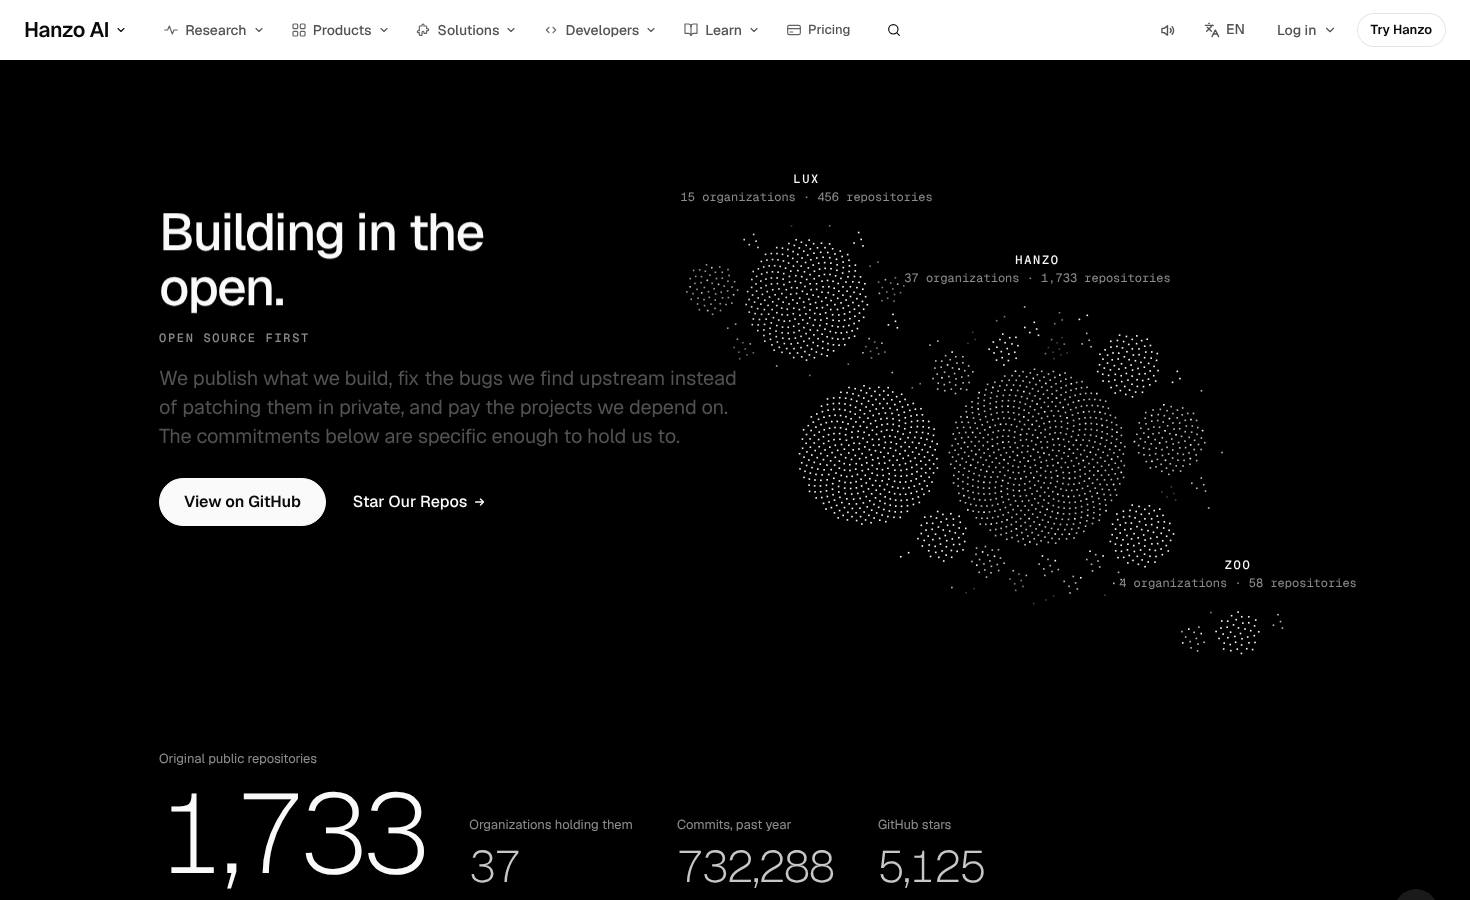
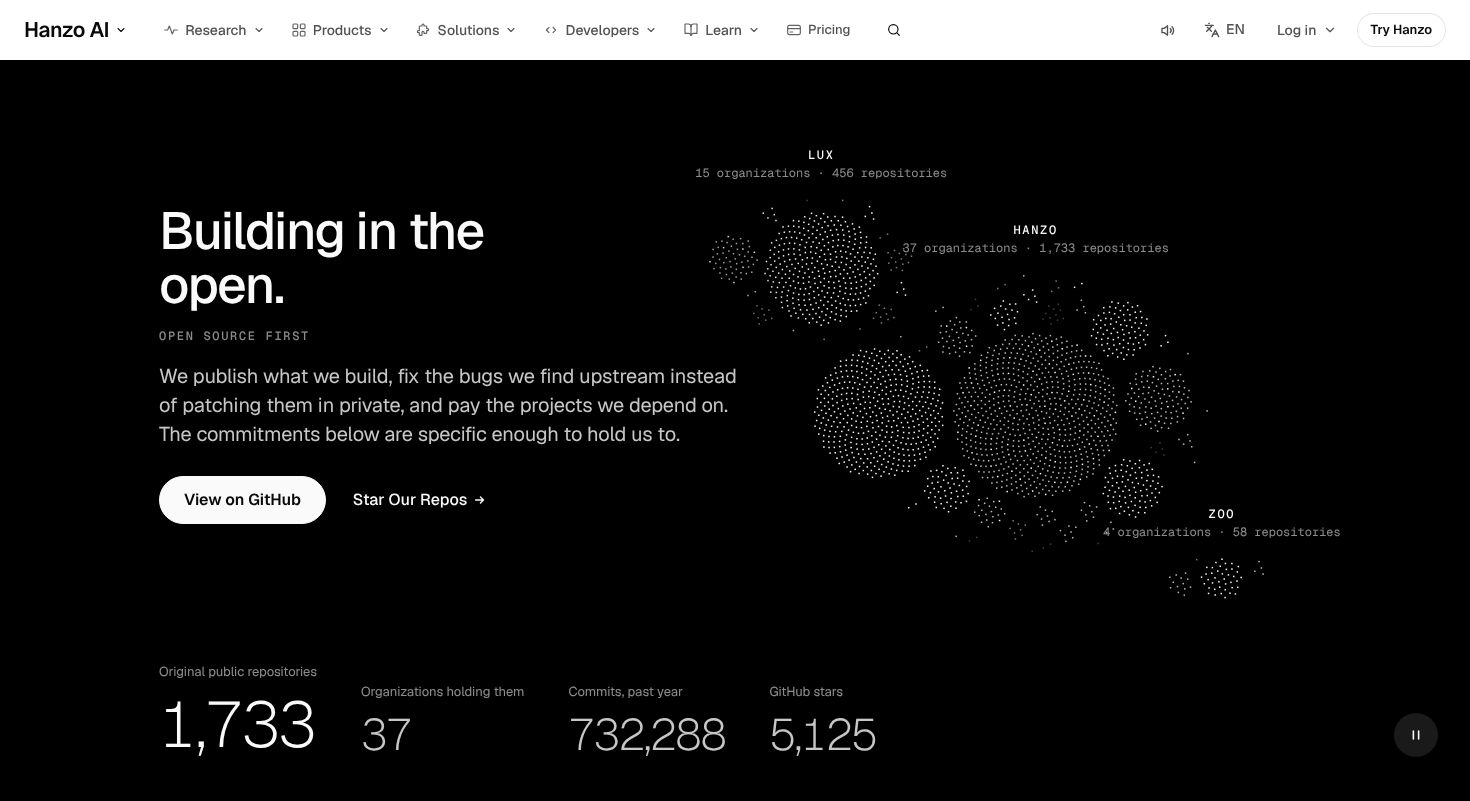
open-source: Ready — headline first on arrival, closing black room, ink glyphs linked to credits, org cards answer with their bar, one ask on phone
Claude-Session: https://claude.ai/code/session_01P5YBdv7StJZXmK5oNtoxtW

diff --git a/components/pages/OpenSource.jsx b/components/pages/OpenSource.jsx
@@ -198,7 +198,7 @@ function Hero() {
       <Sky paused={held} />
       <div className="pf-wrap xos-hero-c">
         <div className="xos-hero-a">
-          <h1 id="xos-h1" className="pf-display xos-h1">Building in the<br />open.</h1>
+          <h1 id="xos-h1" className="pf-display xos-h1"><span className="xos-ln"><span>Building in the</span></span><br /><span className="xos-ln"><span>open.</span></span></h1>
           <p className="xos-cap">Open Source First</p>
           <p className="pf-lede xos-lede">We publish what we build, fix the bugs we find upstream instead of patching them in private, and pay the projects we depend on. The commitments below are specific enough to hold us to.</p>
           <div className="xos-acts">
@@ -459,7 +459,8 @@ const BUILT = [
 const PINNED = '(min-width: 900px) and (prefers-reduced-motion: no-preference)';
 const goTo = (y) => (window.__lenis ? window.__lenis.scrollTo(y, { immediate: true }) : window.scrollTo(0, y));
 
-/* the object: Hanzo's own twelve glyphs as one mark row; it marks the panel in view and the credit under the pointer */
+/* the object: Hanzo's own twelve glyphs as one mark row, drawn in ink (text presentation where the glyph has one, a flat
+   silhouette where it has not); the glyph itself stays readable as text. It marks the panel in view and the credit under the pointer */
 function Built() {
   const sec = useRef(null), stage = useRef(null), track = useRef(null);
   const [hot, setHot] = useState(-1);
@@ -512,15 +513,16 @@ function Built() {
             <h2 id="xos-built-h" className="pf-head">What Hanzo is built on</h2>
             <p className="pf-body">The projects our platform actually runs on, each with its licence and the people who maintain it.</p>
           </div>
-          <ul className={'xos-marks' + (hot >= 0 ? ' has-hot' : '')} aria-hidden="true">
+          <ul className={'xos-marks' + (hot >= 0 ? ' has-hot' : '')}>
             {BUILT.map(([ic, name], i) => (
-              <li key={name} className={(hot === i ? 'on' : '') + (cur === i ? ' cur' : '')} onClick={() => show(i, true)}><span>{ic}</span></li>
+              <li key={name} className={(hot === i ? 'on' : '') + (cur === i ? ' cur' : '')} onClick={() => show(i, true)}
+                onPointerEnter={(e) => e.pointerType === 'mouse' && setHot(i)} onPointerLeave={() => setHot(-1)}><span className="x-sr">{ic}</span><span aria-hidden="true">{ic.replace('\uFE0F', '\uFE0E')}</span></li>
             ))}
           </ul>
         </div>
         <ul className="xos-tiles xos-track" ref={track} onFocus={focus} onPointerLeave={() => setHot(-1)} onBlur={() => setHot(-1)}>
           {BUILT.map(([ic, name, repo, who, site, what, lic], i) => (
-            <li key={name} className="xos-tile" onPointerMove={lean} onPointerLeave={rest} onPointerEnter={(e) => e.pointerType === 'mouse' && setHot(i)} onFocus={() => setHot(i)}>
+            <li key={name} className={'xos-tile' + (hot === i ? ' hot' : '')} onPointerMove={lean} onPointerLeave={rest} onPointerEnter={(e) => e.pointerType === 'mouse' && setHot(i)} onFocus={() => setHot(i)}>
               <span className="xos-tile-lic pf-mono">{lic}</span>
               <A to={repo} className="xos-tile-n">{name}</A>
               <span className="xos-tile-d">{what}</span>
@@ -544,7 +546,7 @@ const CHARTER = [
 ];
 function Charter() {
   const end = useRef(null);
-  const signed = useInView(end, { once: true, amount: 1 });
+  const signed = useInView(end, { once: true, amount: 0.6 });
   return (
     <section className="pf-sec xos-charter" aria-labelledby="xos-ch-h">
       <div className="pf-wrap pf-grid">
@@ -565,10 +567,10 @@ function Charter() {
             <svg viewBox="0 0 320 90" width="320" height="90">
               <motion.path d="M10 62c18-30 34-44 44-40 9 4-8 40-2 44 6 4 22-36 34-34 10 2-4 30 4 32 9 2 20-26 30-24 8 2-2 22 6 22 10 0 18-18 30-18 9 0 4 16 14 16 14 0 34-20 52-22 16-2 40 6 84 4"
                 fill="none" stroke="currentColor" strokeWidth="2.2" strokeLinecap="round" strokeLinejoin="round"
-                initial={{ pathLength: 0 }} animate={{ pathLength: signed ? 1 : 0 }} transition={{ duration: 2.2, ease: [0.65, 0, 0.35, 1] }} />
+                initial={{ pathLength: 0 }} animate={{ pathLength: signed ? 1 : 0 }} transition={{ duration: 1.1, ease: [0.65, 0, 0.35, 1] }} />
             </svg>
             <span className="xos-sign-l" />
-            <span className="xos-sign-m"><svg viewBox="0 0 67 67" width="18" height="18" fill="currentColor"><path d="M22.21 67V44.6369H0V67H22.21Z" /><path d="M66.7038 22.3184H22.2534L0.0878906 44.6367H44.4634L66.7038 22.3184Z" /><path d="M22.21 0H0V22.3184H22.21V0Z" /><path d="M66.7198 0H44.5098V22.3184H66.7198V0Z" /><path d="M66.7198 44.6369H44.5098V67H66.7198V44.6369Z" /></svg></span>
+            <span className="xos-sign-m"><svg viewBox="0 0 67 67" width="24" height="24" fill="currentColor"><path d="M22.21 67V44.6369H0V67H22.21Z" /><path d="M66.7038 22.3184H22.2534L0.0878906 44.6367H44.4634L66.7038 22.3184Z" /><path d="M22.21 0H0V22.3184H22.21V0Z" /><path d="M66.7198 0H44.5098V22.3184H66.7198V0Z" /><path d="M66.7198 44.6369H44.5098V67H66.7198V44.6369Z" /></svg></span>
           </div>
         </div>
       </div>
@@ -590,13 +592,8 @@ function Contribute() {
     <Ripple className="pf-sec xos-con" aria-labelledby="xos-con-h">
       <div className="pf-wrap pf-grid">
         <div className="xos-con-a">
-          <h2 id="xos-con-h" className="pf-display">Contribute</h2>
-          <p className="xos-cap">Join the Community</p>
+          <h2 id="xos-con-h" className="pf-head">Contribute</h2>
           <p className="pf-lede">We welcome contributions of all kinds: code, documentation, bug reports and feature requests.</p>
-          <div className="xos-con-acts">
-            <A to="https://github.com/hanzoai" className="pf-btn solid" data-cta="open-source.band" data-thumb="Start Contributing">Start Contributing</A>
-          </div>
-          <p className="xos-con-note"><More to="https://discord.gg/XthHQQj">Join Discord</More><More to="/founder">Founder Program</More></p>
         </div>
         <div className="xos-con-b">
           <div className="xos-langchips" role="radiogroup" aria-label="Language">
@@ -624,6 +621,31 @@ function Contribute() {
   );
 }
 
+/* the close: one centred black room in Hanzo's words, the one ask and its two quiet neighbours */
+function Close() {
+  const ref = useRef(null);
+  const [st, setSt] = useState('rest'); // the server and reduced motion show it at rest; below the fold it waits, then plays
+  useEffect(() => {
+    const el = ref.current;
+    if (!el || matchMedia('(prefers-reduced-motion: reduce)').matches || el.getBoundingClientRect().top < innerHeight * 0.9) return;
+    setSt('wait');
+    const io = new IntersectionObserver(([e]) => { if (e.isIntersecting) { setSt('in'); io.disconnect(); } }, { threshold: 0.4 });
+    io.observe(el);
+    return () => io.disconnect();
+  }, []);
+  return (
+    <section className="xos-close" data-room="dark" data-e={st} ref={ref} aria-labelledby="xos-close-h">
+      <div className="pf-wrap">
+        <h2 id="xos-close-h" className="pf-display xos-close-h"><span className="xos-ln"><span>Join the Community</span></span></h2>
+        <div className="xos-close-acts">
+          <A to="https://github.com/hanzoai" className="pf-btn xos-btn-l" data-cta="open-source.band">Start Contributing</A>
+        </div>
+        <p className="xos-con-note"><More to="https://discord.gg/XthHQQj">Join Discord</More><More to="/founder">Founder Program</More></p>
+      </div>
+    </section>
+  );
+}
+
 /* JS off: the tabs cannot switch, so every ecosystem and galaxy panel shows, one after another; the gallery cannot be
    driven by scroll, so it is the native sideways rail it is on phones */
 const NOSCRIPT = '<style>.xos-panel[hidden],.xos-opanel[hidden]{display:block!important;margin-top:64px}.xos-eco,.xos-chips{display:none!important}'
@@ -644,6 +666,7 @@ export default function OpenSource() {
         <Charter />
         <Contribute />
       </div>
+      <Close />
     </main>
   );
 }

diff --git a/components/pages/OpenSource.css b/components/pages/OpenSource.css
@@ -30,7 +30,7 @@
 .xos-hero-c { position: relative; z-index: 2; display: flex; flex-direction: column; justify-content: space-between; gap: 27px; padding: 144px 0 27px; pointer-events: none; }
 .xos-hero-c a, .xos-hero-c button { pointer-events: auto; }
 /* the hero room is 100svh tall but starts under the 60px header: the figures rest above the fold, not on it */
-@media (min-width: 900px) { .xos-hero-c { padding-bottom: calc(60px + 44px); } }
+@media (min-width: 900px) { .xos-hero-c { padding-bottom: calc(60px + 44px); } .xos-pause { bottom: calc(60px + 44px); } } /* the pause rests on the figures' line, above the fold */
 .xos-hero-a { max-width: 640px; }
 .xos-hero .xos-cap { color: rgba(255, 255, 255, .55); }
 .xos-h1 { color: #fafafa; }
@@ -364,4 +364,57 @@
   .xos-langs li, .xos-dash-c li, .xos-panel, .xos-lrepos li { animation: none !important; }
   .xos-heat-g i, .xos-lbar i, .xos-ocard, .xos-tile { transition: none; }
   .xos-dash-dot::after { animation: none; }
+}
+
+/* arrival: the h1 lines cut up out of their masks, then the caption, lede, asks and figures follow (CSS, so it plays
+   from the server HTML before hydration and the headline is always first) */
+.xos-ln { display: inline-block; overflow: hidden; vertical-align: top; padding-bottom: .1em; margin-bottom: -.1em; }
+.xos-ln > span { display: inline-block; }
+.xos-h1 .xos-ln > span { animation: xos-cut 700ms var(--e-emph) both; }
+.xos-h1 .xos-ln + br + .xos-ln > span { animation-delay: 60ms; }
+.xos-hero .xos-cap, .xos-hero .xos-lede, .xos-hero .xos-acts, .xos-hero-b { animation: xos-rise 600ms var(--e-emph) both; }
+.xos-hero .xos-cap { animation-delay: 160ms; }
+.xos-hero .xos-lede { animation-delay: 220ms; }
+.xos-hero .xos-acts { animation-delay: 280ms; }
+.xos-hero-b { animation-delay: 360ms; }
+@keyframes xos-cut { from { transform: translate3d(0, 105%, 0); } }
+@keyframes xos-rise { from { opacity: 0; transform: translate3d(0, 14px, 0); } }
+
+/* the close: one centred black room, the one ask in white, two quiet links */
+.xos-close { background: #000000; color: #fafafa; padding: clamp(104px, 12vw, 168px) 0; text-align: center; }
+.xos-close-h { margin: 0; color: #fafafa; }
+.xos-close-acts { display: flex; justify-content: center; margin-top: 36px; }
+.xos-close .xos-btn-l { min-height: 52px; padding: 0 30px; font-size: 16px; transition: background-color 150ms var(--e-out), transform 90ms var(--e-out); }
+@media (hover: hover) { .xos-close .xos-btn-l:hover { background: #d4d4d4; border-color: #d4d4d4; } .xos-close .x-arrow:hover { background: rgba(255, 255, 255, .14); } }
+.xos-close .xos-btn-l:active { transform: scale(.98); }
+.xos-close .xos-con-note { justify-content: center; margin-top: 20px; }
+.xos-close .x-arrow { color: #fafafa; }
+.xos-close[data-e='wait'] .xos-ln > span { transform: translate3d(0, 105%, 0); }
+.xos-close[data-e='wait'] .xos-close-acts, .xos-close[data-e='wait'] .xos-con-note { opacity: 0; transform: translate3d(0, 14px, 0); }
+.xos-close[data-e='in'] .xos-ln > span { animation: xos-cut 700ms var(--e-emph) both; }
+.xos-close[data-e='in'] .xos-close-acts { animation: xos-rise 600ms var(--e-emph) 160ms both; }
+.xos-close[data-e='in'] .xos-con-note { animation: xos-rise 600ms var(--e-emph) 240ms both; }
+
+/* Hanzo's twelve glyphs drawn in ink, one flat silhouette each (no colour, no filter); the hovered one stays ink */
+.xos-marks span[aria-hidden] { color: transparent !important; text-shadow: 0 0 0 #0a0a0a; font-variant-emoji: text; }
+.xos-tile .xos-tile-lic { transition: background-color 150ms var(--e-out), color 150ms var(--e-out); }
+.xos-tile.hot { background: #ededed; }
+.xos-tile.hot .xos-tile-lic { background: #0a0a0a; color: #fafafa; }
+
+/* an organization card answers with its own figure: the repositories bar thickens and refills to its share */
+.xos-oc-bar { transform-origin: 50% 100%; transition: transform 300ms var(--e-emph); }
+.xos-oc-f { transition: color 150ms var(--e-out); }
+@media (hover: hover) {
+  .xos-ocard:hover .xos-oc-bar { transform: scaleY(3); }
+  .xos-ocard:hover .xos-oc-bar i { animation: xos-fill 700ms var(--e-emph); }
+  .xos-ocard:hover .xos-oc-f { color: #0a0a0a; }
+}
+@keyframes xos-fill { from { transform: scaleX(0); } }
+
+@media (max-width: 899px) {
+  /* phone: one ask; the sticky local band (and its second GitHub button) stays a desktop part */
+  .xos-local { display: none; }
+}
+@media (prefers-reduced-motion: reduce) {
+  .xos-h1 .xos-ln > span, .xos-hero .xos-cap, .xos-hero .xos-lede, .xos-hero .xos-acts, .xos-hero-b, .xos-oc-bar i { animation: none !important; }
 }

diff --git a/docs/coverage/open-source.md b/docs/coverage/open-source.md
@@ -31,15 +31,15 @@ Done here: parity 139/139 links. Org cards are `<a href="/oss/<login>">`; the he
 - [x] Ends in proof strip, `Band`, footer
 - [x] Card-to-page links use Morph; title lands within 12px
 
-Done here: the h1 "Building in the open." cuts in by line mask; the sky pulls back from inside Hanzo to all three galaxies within 3 s of arrival with no input; "Open Source First" is a caption under the h1. JS off: 248 text blocks, 0 invisible; every tab panel shows. Order: sky → What we publish → Total → Every organization → Built on → Charter → Contribute (the band). Round 2: the list rise `xos-in` now has an end state (`to { opacity: 1 }`), so Totals, all six charter articles and the Contribute repository list are visible at both sizes (probe: every `.xos-arts > li`, `.xos-total-n > li`, `.xos-lrepos > li` at opacity 1, 1470 and 375); seams between paper sections tightened to 116 + 72px. Org card title morphs into `/oss/hanzoskill`'s h1 (`data-morph` → `data-morph-target`; filmed in `docs/gallery/open-source/click-through.jpg`, with the Morph fix above).
+Done here: 8 Nov: the h1's two lines cut up out of their masks (CSS, 700 ms, 60 ms apart, from the server HTML), then the caption, lede, asks and figures rise 160–360 ms after, so the headline always reads first; the page now ends Contribute → a centred black close room ("Join the Community" by line mask, "Start Contributing", Join Discord, Founder Program) → footer. Earlier: the h1 "Building in the open." cuts in by line mask; the sky pulls back from inside Hanzo to all three galaxies within 3 s of arrival with no input; "Open Source First" is a caption under the h1. JS off: 248 text blocks, 0 invisible; every tab panel shows. Order: sky → What we publish → Total → Every organization → Built on → Charter → Contribute (the band). Round 2: the list rise `xos-in` now has an end state (`to { opacity: 1 }`), so Totals, all six charter articles and the Contribute repository list are visible at both sizes (probe: every `.xos-arts > li`, `.xos-total-n > li`, `.xos-lrepos > li` at opacity 1, 1470 and 375); seams between paper sections tightened to 116 + 72px. Org card title morphs into `/oss/hanzoskill`'s h1 (`data-morph` → `data-morph-target`; filmed in `docs/gallery/open-source/click-through.jpg`, with the Morph fix above).
 
 ## 4. Conversion system
 - [x] `<Cta>` only; no raw `.x-btn` — `.pf-btn` kit class until `<Cta>` merges
-- [x] Sticky ask in header and bar after the hero, same label — on desktop Hanzo's header carries "View on GitHub" and the in-page band keeps only the name and the live read (no duplicate button); on phone the band keeps the quiet "View on GitHub"
+- [x] Sticky ask in header and bar after the hero, same label — on desktop Hanzo's header carries "View on GitHub" and the in-page band keeps only the name and the live read (no duplicate button); on phone the local band is not shown (one ask per screen; the phone header following the page ask is requested)
 - [x] Copy button copies exactly the displayed text — n/a: no copy button on this page
 - [x] `data-cta` and `data-thumb` on every primary
 
-Done here: `data-cta="open-source.hero"` with `data-thumb="View on GitHub"`; `data-cta="open-source.band"` with `data-thumb="Start Contributing"` (the hero's comes first, so the header keeps it). `.xos-local-a` is `display:none` from 900px up.
+Done here: `data-cta="open-source.hero"` with `data-thumb="View on GitHub"`; `data-cta="open-source.band"` on the close room's "Start Contributing". `.xos-local-a` is `display:none` from 900px up.
 
 ## 5. Trust and proof
 - [x] No logo without documented permission; no seal; no invented number
@@ -73,7 +73,7 @@ Done here: `taste.py` OK. Rhythm on `ProofRhythm.css`: h1 52, section headings 2
 - [x] Inputs 16px or larger; no bare `:hover`
 - [x] Forks this page deleted: listed below
 
-Done here: tabs, chips, cards, text links and the pause button press at `scale(.97)` in 90 ms; "Star Our Repos", "Join Discord", "Founder Program" and the "Read more" sheet triggers answer hover with a pill fill (`#f2f2f2`, white 14% on black); the closing ask hovers to `#262626`; pointing at a "Built on" credit lights its mark in the row; hovers sit inside `@media (hover: hover)`; focus is a 2px ink ring with a white halo (white with black on the hero). Deleted: the floating ask bar, cursor labels, outlined second button.
+Done here: tabs, chips, cards, text links and the pause button press at `scale(.97)` in 90 ms; "Star Our Repos", "Join Discord", "Founder Program" and the "Read more" sheet triggers answer hover with a pill fill (`#f2f2f2`, white 14% on black); the closing ask hovers to `#262626`; pointing at a "Built on" credit lights its mark in the row, and pointing at a mark lights its credit (fill #ededed, licence chip inverts to ink); an organization card's hover thickens its repositories bar 3x and refills it to its share, and its commits line darkens; hovers sit inside `@media (hover: hover)`; focus is a 2px ink ring with a white halo (white with black on the hero). Deleted: the floating ask bar, cursor labels, outlined second button.
 
 ## 9. Motion and interaction
 - [x] One signature, at most 3 supporting techniques, at most 2 fade-ups
@@ -82,7 +82,7 @@ Done here: tabs, chips, cards, text links and the pause button press at `scale(.
 - [x] Reduced motion shows the final state; no `setInterval`
 - [x] Sound only on the listed moments, through the one kit — n/a: the sound kit is not merged; nothing plays
 
-Done here: signature the card that opens (Morph). Supporting: the sky (idle: drift and twinkle; arrival: the pull-back), the tab pill gliding at 300 ms ease-emphasis while the heat map re-lights (state), the charter's drawn signature (arrival). Scroll-linked: only the line masks. No springs; hovers 150 ms ease-out, presses 90 ms, arrivals 400–500 ms ease-emphasis. Cards lean up to 2.5° (fine pointers only).
+Done here: signature the card that opens (Morph). Supporting: the sky (idle: drift and twinkle; arrival: the pull-back), the tab pill gliding at 300 ms ease-emphasis while the heat map re-lights (state), the charter's drawn signature (arrival: 1.1 s once the signature line is 60% in view, the Hanzo mark beside it at 24px). The twelve Built-on glyphs are drawn in ink (text presentation where the glyph has one, a flat silhouette otherwise), no colour and no filter; each glyph stays in the page as text. Scroll-linked: only the line masks. No springs; hovers 150 ms ease-out, presses 90 ms, arrivals 400–500 ms ease-emphasis. Cards lean up to 2.5° (fine pointers only).
 
 ## 10. Media
 - [x] `Film` and `Pic` only; sizes and posters set — n/a: the page has no images or film

diff --git a/docs/review/open-source.md b/docs/review/open-source.md
@@ -1,6 +1,7 @@
 # /open-source — James-eye review
 
 Verdict: 7/10
+Ready: 8 Nov, held up next to /api and /affiliate (no score). The h1 cuts in first with the lede, asks and figures following, the page closes on a centred black room ("Join the Community", Start Contributing, Join Discord, Founder Program), the Built-on glyphs are drawn in ink with marks and credits lighting each other, organization cards answer hover with their own bar, the charter signs in 1.1 s with a 24px mark, the phone shows one ask (local band desktop-only) and the desktop pause sits above the fold (the invented Article labels were already gone). taste/unique/parity OK (417/417 text, 139/139 links); 0 console errors, no overlap at 1470x801 and 375x812. Shared, not this page: phone header ask following the page ask, FooterHTML hydration, cookie card (docs/requests/open-source.md).
 First complaint: "The top is alive and it's ours: the dots gather into Hanzo, Lux and Zoo. Then it turns into grey boxes, eight of them, then twelve with greyed-out emojis on top, and it reads like a spreadsheet of repos. And on the phone the pause button is sitting on top of the stars number."
 
 Walked 7 Nov 2026 on the dev server at 1470x801 and 375x812 (recorder walk at both sizes, all 12 desktop and 18 phone scroll stops, a vs b idle frames; my own Playwright probes: hero arrival every 100 ms for 1.6 s, Total count-up final value, Zoo organization tab, org card hover, "Read more" sheet open and Esc, Built-on mark hover, charter signature draw, phone overlap measure, reduced motion, JS off).

diff --git a/docs/requests/open-source.md b/docs/requests/open-source.md
@@ -3,3 +3,5 @@
 1. **Phone header ask (Header / Chrome).** On desktop the header swaps its ask to the page's `data-thumb` ("View on GitHub"), but on phone (375x812) it keeps a solid black "Try Hanzo", so the page shows two different asks (header "Try Hanzo", page band "View on GitHub"). Please let the phone header follow the page's first `[data-thumb]` as the desktop header does. The page has removed its own duplicate on desktop; on phone it keeps the quiet band button until the header follows.
 2. **`components/v2/ProofScale.css:32`** `.pf-btn.solid:hover { background: #2a2a2c; }` is not a deck value. Suggest `#262626`. /open-source overrides it page-locally (`.xos .pf-btn.solid:hover`), other pages using `.pf-btn.solid` still show `#2a2a2c`.
 3. **Cookie card (shared chrome)** covers the hero figures at 1470x801 and the lower 220px on phone until dismissed (critic note; not this page's to change).
+4. (8 Nov) Item 1 still stands: on phone the page now hides its local band (and its "View on GitHub") so the first screens carry one ask; the header's solid "Try Hanzo" beside the hero's "View on GitHub" needs the header to follow `[data-thumb]` on phone as it does on desktop.
+5. (8 Nov) check.cjs reports the "What we publish" commit message overlapping its time stamp at 1470; measured, the boxes are 842–1182 and 1192–1278 (10px apart): the message is ellipsis-clipped and the tool reads its scrollWidth. False positive.
